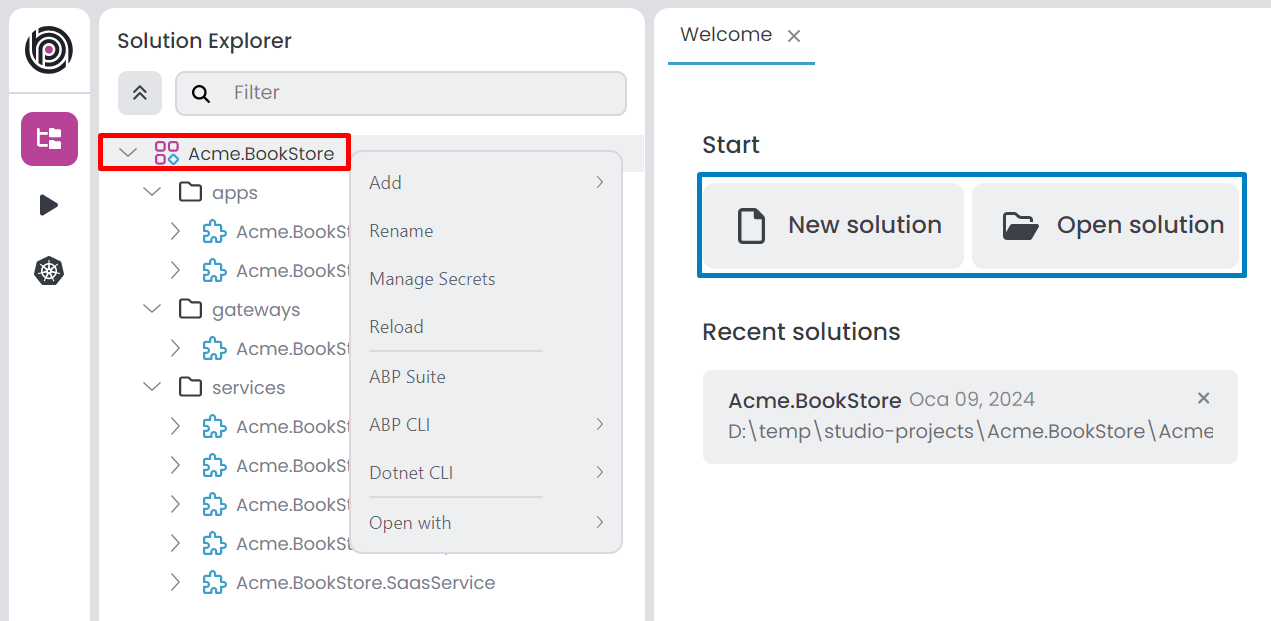
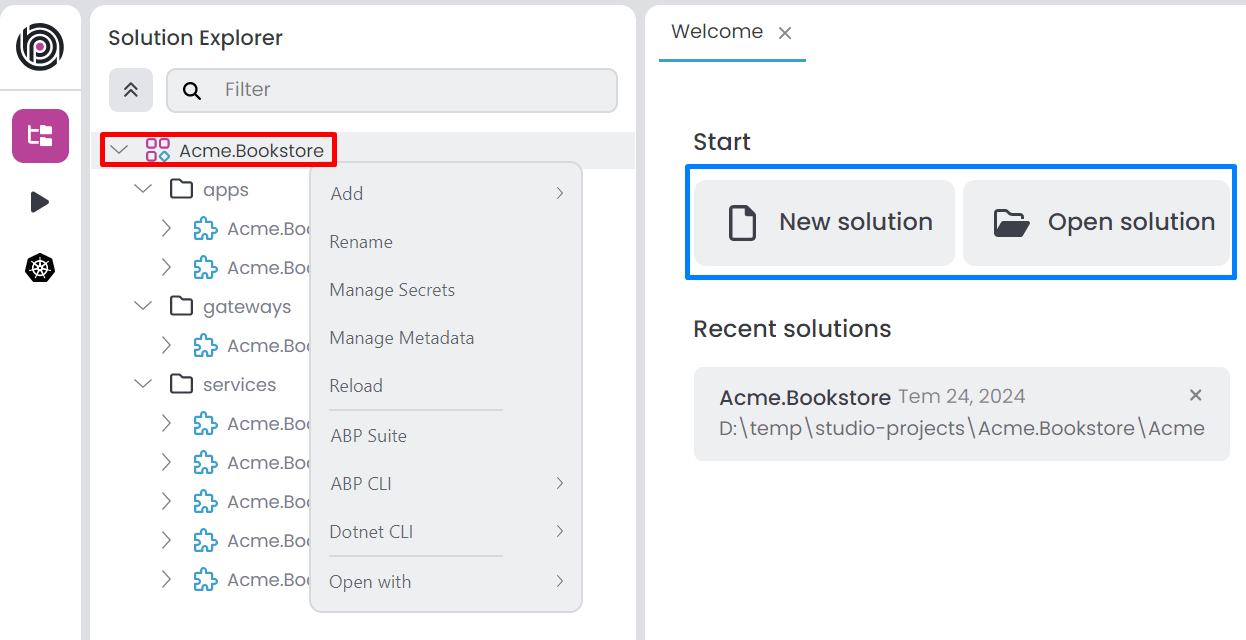
Solution explorer, running applications missing metadata section added

diff --git a/docs/en/studio/running-applications.md b/docs/en/studio/running-applications.md
@@ -33,7 +33,7 @@ It opens the *Manage Run Profiles* window. You can edit/delete existing profiles
 
 ![manage-run-profiles](images/solution-runner/manage-run-profiles.png)
 
-When you click *Add New Profile*, it opens the *Create New Profile* window. You can provide an arbitrary profile name, which should be unique among the profiles. Additionally, the name should only contain letters, numbers, underscores, dashes, and dots in the text. When you create a new profile, it stores the JSON file at the specified path. You can specify the path `abp-solution-path/etc/abp-studio/run-profiles` for microservice projects or `abp-solution-path/etc/run-profiles` for other project types to adhere to the standard format. Click *OK* button to save profile.
+When you click *Add New Profile*, it opens the *Create New Profile* window. You can provide an arbitrary profile name, which should be unique among the profiles. Additionally, the name should only contain letters, numbers, underscores, dashes, and dots in the text. When you create a new profile, it stores the JSON file at the specified path. You can specify the path `abp-solution-path/etc/abp-studio/run-profiles` for microservice projects or `abp-solution-path/etc/run-profiles` for other project types to adhere to the standard format. You can also define *Metadata* and *Secrets* key-value pairs. Click *OK* button to save profile.
 
 ![create-new-profile](images/solution-runner/create-new-profile.png)
 

diff --git a/docs/en/studio/solution-explorer.md b/docs/en/studio/solution-explorer.md
@@ -28,6 +28,7 @@ It is the main solution that you can open with ABP Studio, an ABP solution can c
   - `Existing Module`: You can add existing module to your solution.
 - `Rename`: Renames the solution.
 - `Manage Secrets`: You can edit your solution secrets.
+- `Manage Metadata`: You can edit your solution metadata.
 - `Reload`: Reloads the solution.
 - `ABP Suite`: It opens the *Choose Module* window and you can select a module or continue without selecting a module. If you select a module, it will open the module in the ABP Suite. If you continue without selecting a module, it will open the ABP Suite without a module.
 - `ABP CLI`
